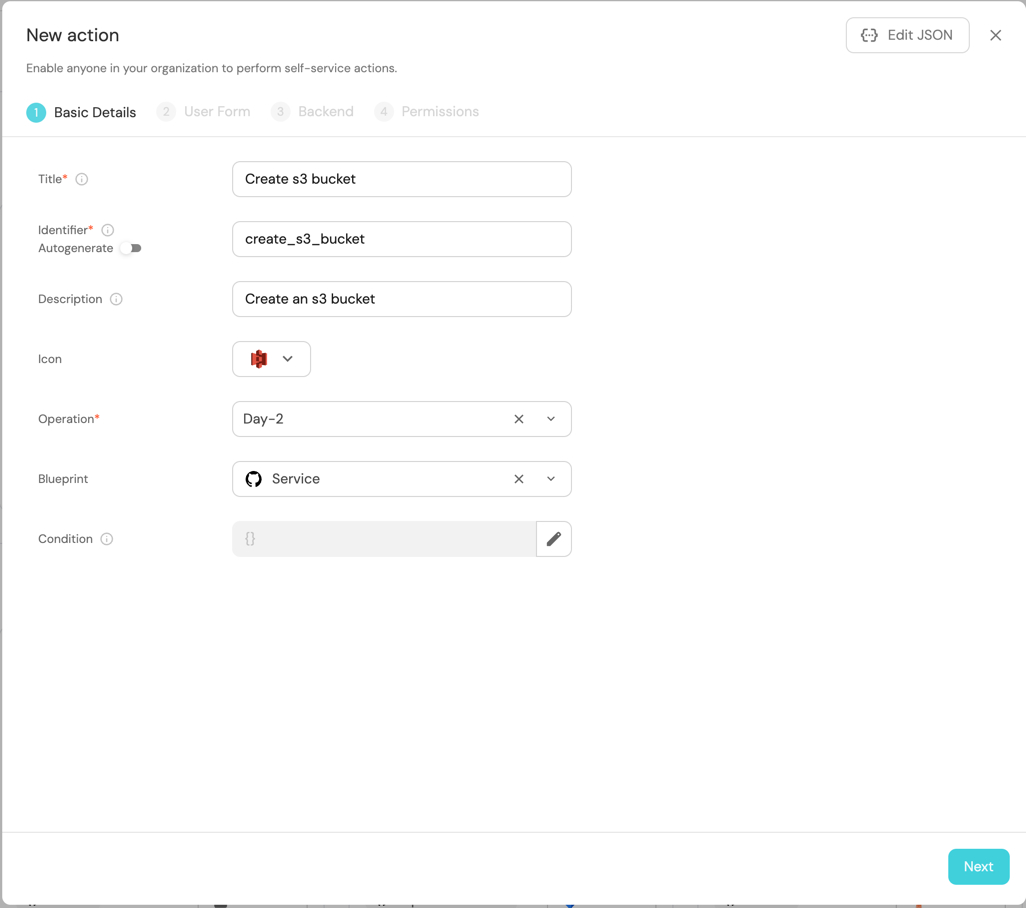
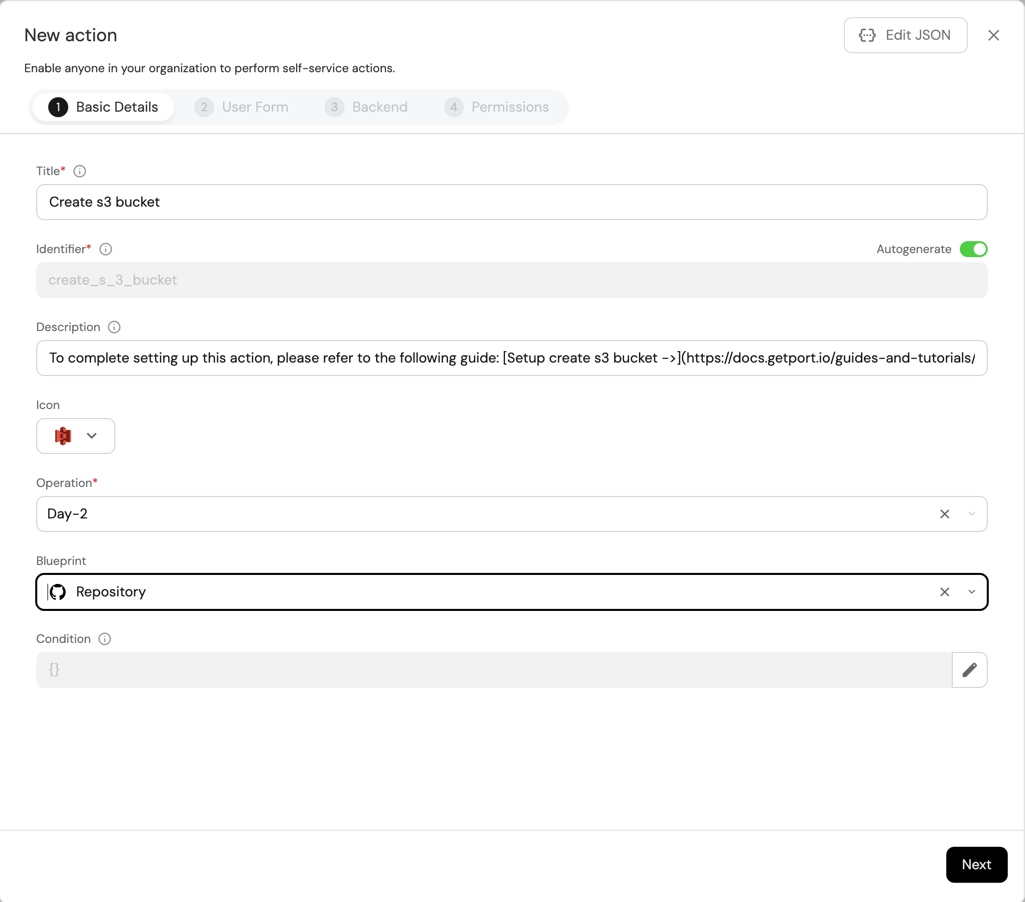
- changed service to repo to reflect to the new onboarding structure

diff --git a/docs/guides/all/create-cloud-resource-using-iac.md b/docs/guides/all/create-cloud-resource-using-iac.md
@@ -18,7 +18,7 @@ This guide takes 8 minutes to complete, and aims to demonstrate:
 
 :::info Prerequisites
 
-- This guide assumes you have a Port account and that you have finished the [onboarding process](/quickstart). We will use the `Service` blueprint that was created during the onboarding process.
+- This guide assumes you have a Port account and that you have installed any of Port's [Git Integrations](/build-your-software-catalog/sync-data-to-catalog/git/). We will use the `Repository` blueprint that was created during the installation process.
 - You will need a Git repository (Github, GitLab, or Bitbucket) in which you can place a workflow/pipeline that we will use in this guide. If you don't have one, we recommend creating a new repository named `Port-actions`.
 
 :::
@@ -36,15 +36,15 @@ After completing it, you will get a sense of how it can benefit different person
 
 ### Add a URL to your new resource's definition
 
-In this guide we will add a new property to our `service` <PortTooltip id="blueprint">blueprint</PortTooltip>, which we can use to access our cloud resource definitions.
+In this guide we will add a new property to our `repository` <PortTooltip id="blueprint">blueprint</PortTooltip>, which we can use to access our cloud resource definitions.
 
 1. Go to your [Data model](https://app.getport.io/settings/data-model) page.
-2. Expand your `service` <PortTooltip id="blueprint">blueprint</PortTooltip>, then click on `+ New property`.
+2. Expand your `repository` <PortTooltip id="blueprint">blueprint</PortTooltip>, then click on `+ New property`.
 3. Choose `URL` as the type, fill it like this and click `Save`:
 
     <img src='/img/guides/iacPropertyForm.png' width='40%' border='1px' />
 
-This property is empty for now in all services, we will fill it as part of the action we're about to create 😎
+This property is empty for now in all repositories, we will fill it as part of the action we're about to create 😎
 
 ### Setup the action's frontend
 
@@ -59,7 +59,7 @@ This property is empty for now in all services, we will fill it as part of the a
     - **Description**:  Enter the description (e.g., Create an s3 bucket)
     - **Icon**: Type s3 and choose the  Icon (optional)
     - **Operation**:  Choose `Day-2`  from the dropdown
-    - **Blueprint**:  Choose `Service` from the dropdown
+    - **Blueprint**:  Choose `Repository` from the dropdown
       
       <img src='/img/guides/iacActionDetails.png' width='50%' border='1px' />
      <br/>
@@ -323,7 +323,7 @@ jobs:
         uses: port-labs/port-github-action@v1
         with:
           identifier: ${{ fromJson(inputs.port_context).entity }}
-          blueprint: service
+          blueprint: repository
           properties: |-
             {
               "resource_definitions": "${{ github.server_url }}/${{ github.repository_owner }}/${{ fromJson(inputs.port_context).entity }}/blob/main/resources/"
@@ -562,7 +562,7 @@ pipeline {
         REPO_NAME = "${SERVICE_NAME}"
         BITBUCKET_WORKSPACE_NAME = "${BITBUCKET_WORKSPACE_NAME}"
         PORT_ACCESS_TOKEN = ""
-        PORT_BLUEPRINT_ID = "service"
+        PORT_BLUEPRINT_ID = "repository"
         PORT_RUN_ID = "${RUN_ID}"
         VISIBILITY="${VISIBILITY}"
         PR_URL=""
